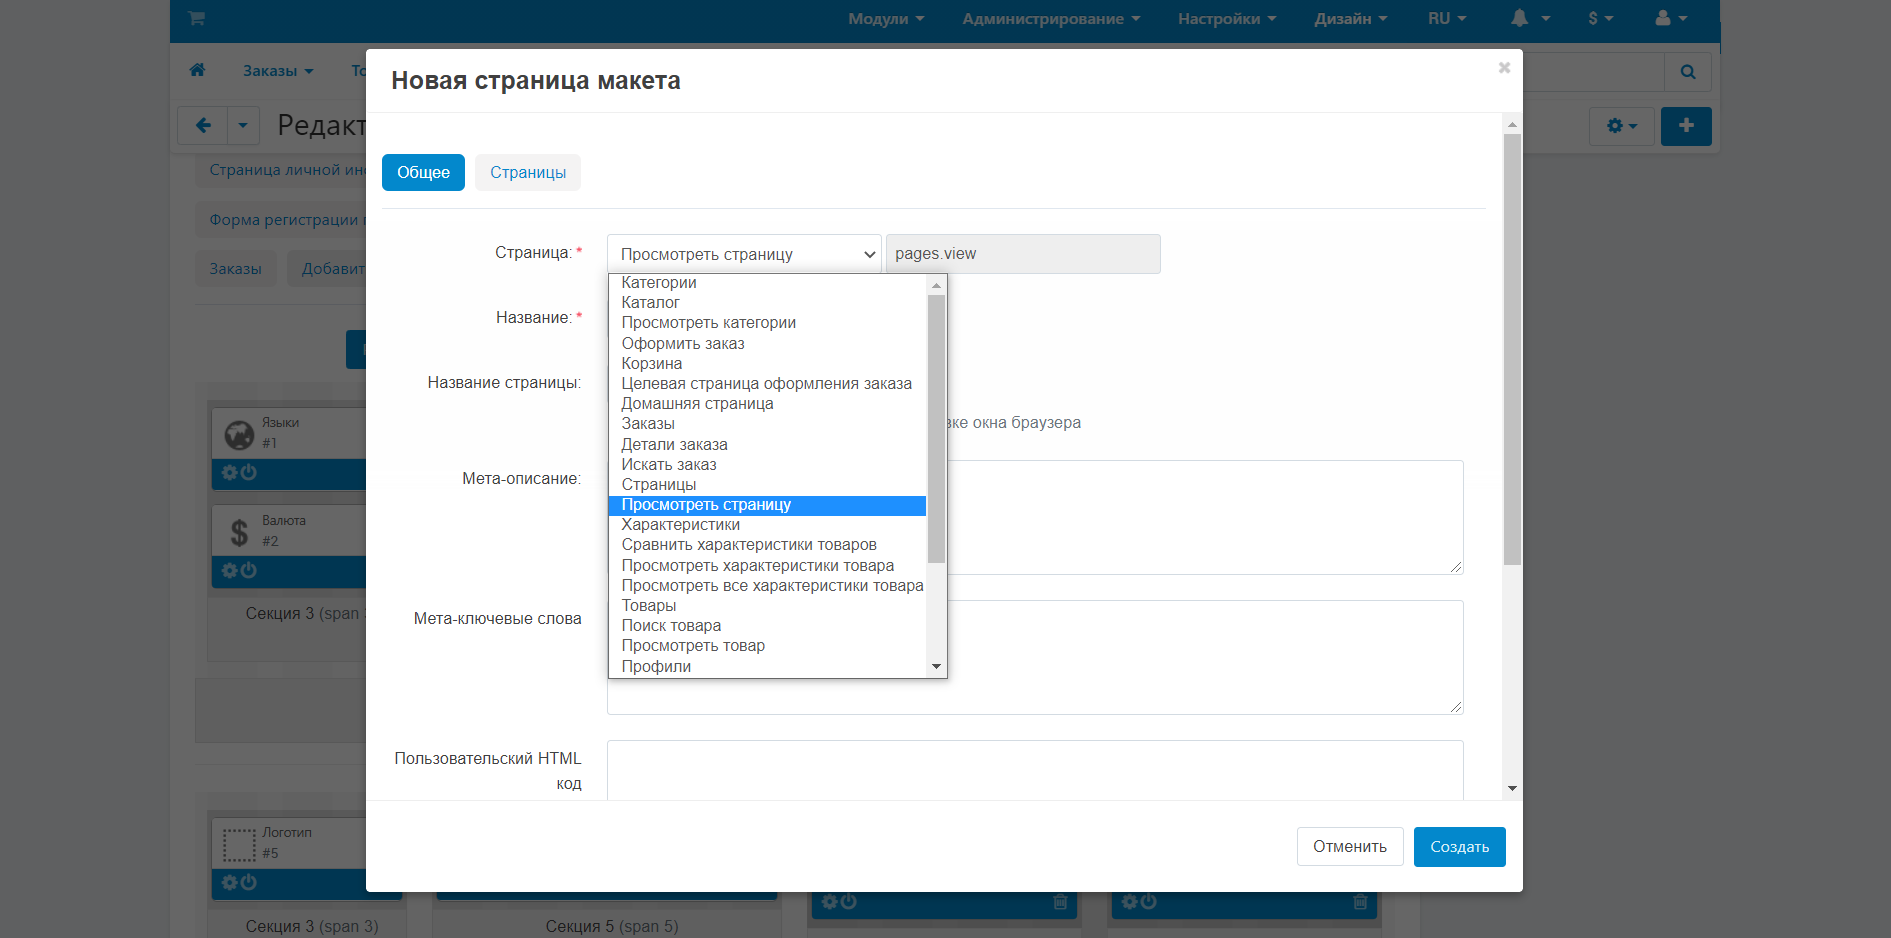
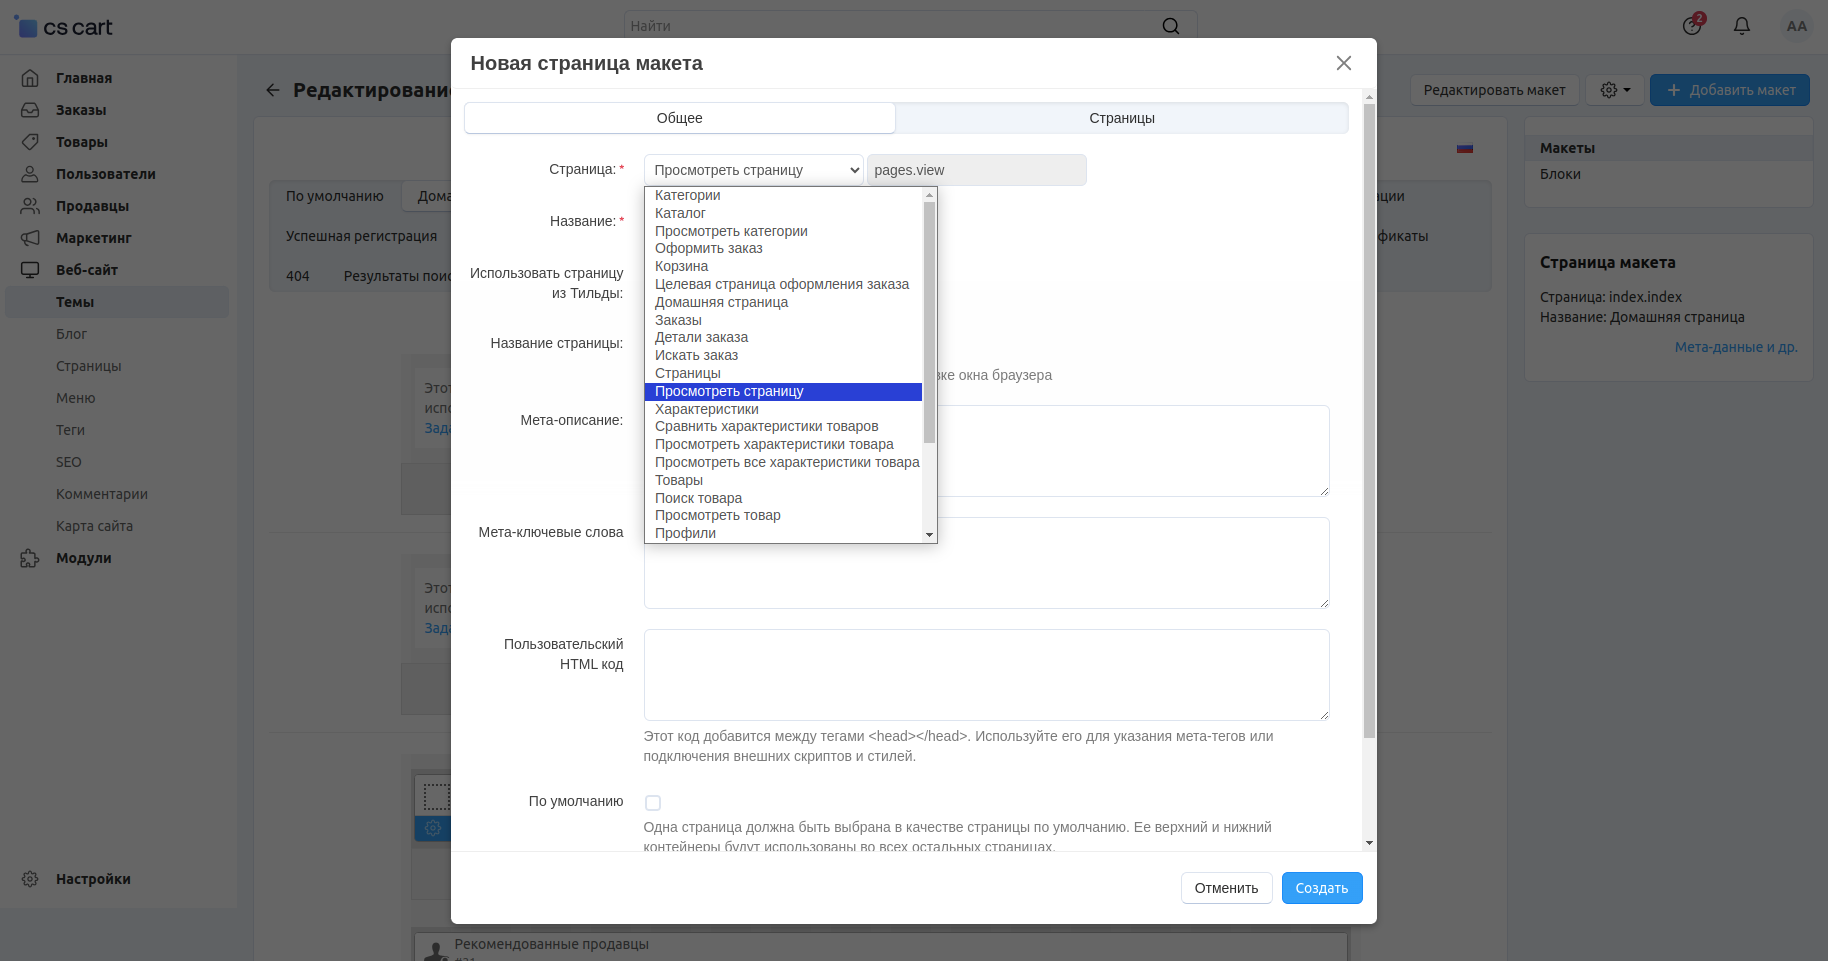
[~] Docs: User guide: RU How to create a page article updated.

diff --git a/ru/user_guide/website/pages/create_service_pages.rst b/ru/user_guide/website/pages/create_service_pages.rst
@@ -52,9 +52,9 @@
 
 В зависимости от содержания, ваша страница может относиться к разным элементам сайта, быть частью различных меню. Добавить элемент в меню вы можете, например так:
 
-#. Перейдите в раздел **Дизайн → Меню**. 
+#. Перейдите в раздел **Веб-сайт → Меню**. 
 
-#. Выберете любое из представленных меню. Добавьте элемент в меню с помощью кнопки **+** в правой верхней части.
+#. Выберете любое из представленных меню. Добавьте элемент в меню с помощью кнопки **+ Добавить меню** в правой верхней части.
 
 #. Впишите название страницы.
 
